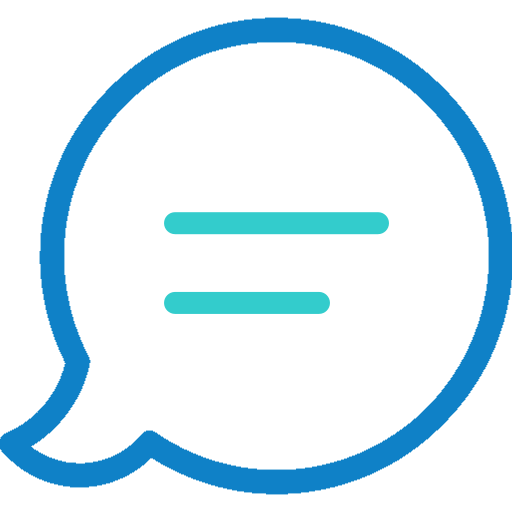
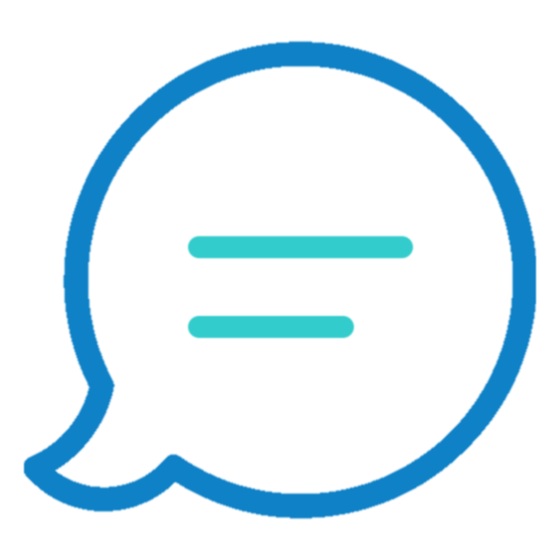
reply button added with frontend
Need to configure replying strategy

Changed region(s): [[0.0, 0.0312, 1.0, 0.9688], [0.3125, 0.4062, 0.7812, 0.4688], [0.3125, 0.5625, 0.6562, 0.625]]

diff --git a/BlogApp/static/BlogApp/home-style.css b/BlogApp/static/BlogApp/home-style.css
@@ -509,7 +509,7 @@ main {
     display: flex;
     align-items: center;
     justify-content: center;
-    margin-right: 8px;
+    margin-right: 7px;
 }
 
 .like-button .like-image {
@@ -649,6 +649,12 @@ main {
     overflow-y: scroll;
 }
 
+.comment-button-container{
+    display: flex;
+    justify-content: space-between;
+    align-items: center;
+    width: 70px;
+}
 
 .like-button-comment {
     padding: 0px;
@@ -689,7 +695,7 @@ main {
     display: flex;
     align-items: center;
     justify-content: center;
-    margin-right: 8px;
+    margin-right: 1px;
 }
 
 .like-button-comment .like-image {
@@ -708,6 +714,70 @@ main {
 
 .like-button-comment.liked .like-image {
     background-image: url('images/like.png');
+}
+
+
+
+
+
+.reply-button {
+    padding: 0px;
+    margin-bottom: 4px;
+    border: none;
+    border-radius: 20px;
+    cursor: pointer;
+    display: flex;
+    align-items: center;
+    background-color: transparent;
+}
+.reply-button:hover .reply-circle{
+    background-color: rgba(20, 114, 255, 0.158);
+}
+
+.reply-button:hover .reply-count{
+    color: #0f81c7;;
+}
+
+.reply-button.replied .reply-count{
+    color: #0f81c7;;
+}
+
+.reply-button:hover {
+    background-color: transparent
+}
+
+.reply-button:hover .reply-image{
+    background-image: url('images/replied.png');
+}
+
+.reply-button .reply-circle {
+    background-color: transparent;
+    border: none;
+    border-radius: 100%;
+    width: 22px;
+    height: 22px;
+    display: flex;
+    align-items: center;
+    justify-content: center;
+    margin-right: 1px;
+}
+
+.reply-button .reply-image {
+    background-image: url('images/reply.png');
+    background-size: contain;
+    background-repeat: no-repeat;
+    background-position: center;
+    width: 100%;
+    height: 100%;
+}
+
+.reply-button .reply-count {
+    font-weight: bold;
+    color: rgb(116, 116, 116);
+}
+
+.reply-button.replied .reply-image {
+    background-image: url('images/replied.png');
 }
 
 /** ----------------------------------------------------------------------  Middle Section  -------------------------------------------------------------------------------*/

diff --git a/BlogApp/templates/BlogApp/home.html b/BlogApp/templates/BlogApp/home.html
@@ -115,12 +115,21 @@
                                                 </div>
                                                 
                                                 <div class="comment-text">{{comment.content}}</div>
-                                                <button class="like-button-comment">
-                                                    <div class="like-circle">
-                                                        <div class="like-image"></div>
-                                                    </div>
-                                                    <span class="likes-count">0</span>
-                                                </button>
+                                                <div class="comment-button-container"> 
+                                                    <button class="like-button-comment">
+                                                        <div class="like-circle">
+                                                            <div class="like-image"></div>
+                                                        </div>
+                                                        <span class="likes-count">0</span>
+                                                    </button>
+                                                    <button class="reply-button">
+                                                        <div class="reply-circle">
+                                                            <div class="reply-image"></div>
+                                                        </div>
+                                                        <span class="reply-count">0</span>
+                                                    </button>
+                                                </div>
+
                                             </div>
                                         </div>
                                     {% endfor %}

diff --git a/BlogApp/static/BlogApp/javascript/home/handle_ajax_comment_like.js b/BlogApp/static/BlogApp/javascript/home/handle_ajax_comment_like.js
@@ -69,10 +69,6 @@ document.addEventListener("DOMContentLoaded", function () {
 
             }
         }
-    });
-    
-
-    document.body.addEventListener("click", function(event) {
         if (event.target.closest(".comment-button")) {
             const button = event.target.closest(".comment-button");
             const commentBox = button.closest(".vomit").querySelector(".comment-box");
@@ -81,9 +77,6 @@ document.addEventListener("DOMContentLoaded", function () {
             commentBox.style.maxHeight = isCommentBoxVisible ? "200px" : "0";
             commentBox.style.display = isCommentBoxVisible ? "block" : "none";
         }
-    });
-
-    document.body.addEventListener("click",function(event){
         if(event.target.closest(".comment-submit")){
             button = event.target.closest(".comment-submit")
             const commentContent = button.parentElement.querySelector(".comment-submit-content");
@@ -139,8 +132,6 @@ document.addEventListener("DOMContentLoaded", function () {
                 console.log(error);
             });
         }
-
     });
-
-
+    
 });

diff --git a/README.md b/README.md
@@ -26,7 +26,7 @@ If you have any questions please do not hesitate to contact me: Rungrukuk@gmail.
 Icons credits:
 <a href="https://www.flaticon.com/free-icons/heart" title="heart icons">Heart icons created by Freepik - Flaticon</a>
 <a href="https://www.flaticon.com/free-animated-icons/settings" title="settings animated icons">Settings animated icons created by Freepik - Flaticon</a>
-<a href="https://www.flaticon.com/free-animated-icons/reply" title="reply animated icons">Reply animated icons created by Freepik - Flaticon</a>
+<a href="https://www.flaticon.com/free-icons/reply" title="reply icons">Reply icons created by Bharat Icons - Flaticon</a>
 <a href="https://www.flaticon.com/free-animated-icons/add-image" title="add image animated icons">Add image animated icons created by Freepik - Flaticon</a>
 <a href="https://www.flaticon.com/free-animated-icons/message" title="message animated icons">Message animated icons created by Freepik - Flaticon</a>
 <a href="https://www.flaticon.com/free-icons/heart" title="heart icons">Heart icons created by Muhammad Ali - Flaticon</a>
